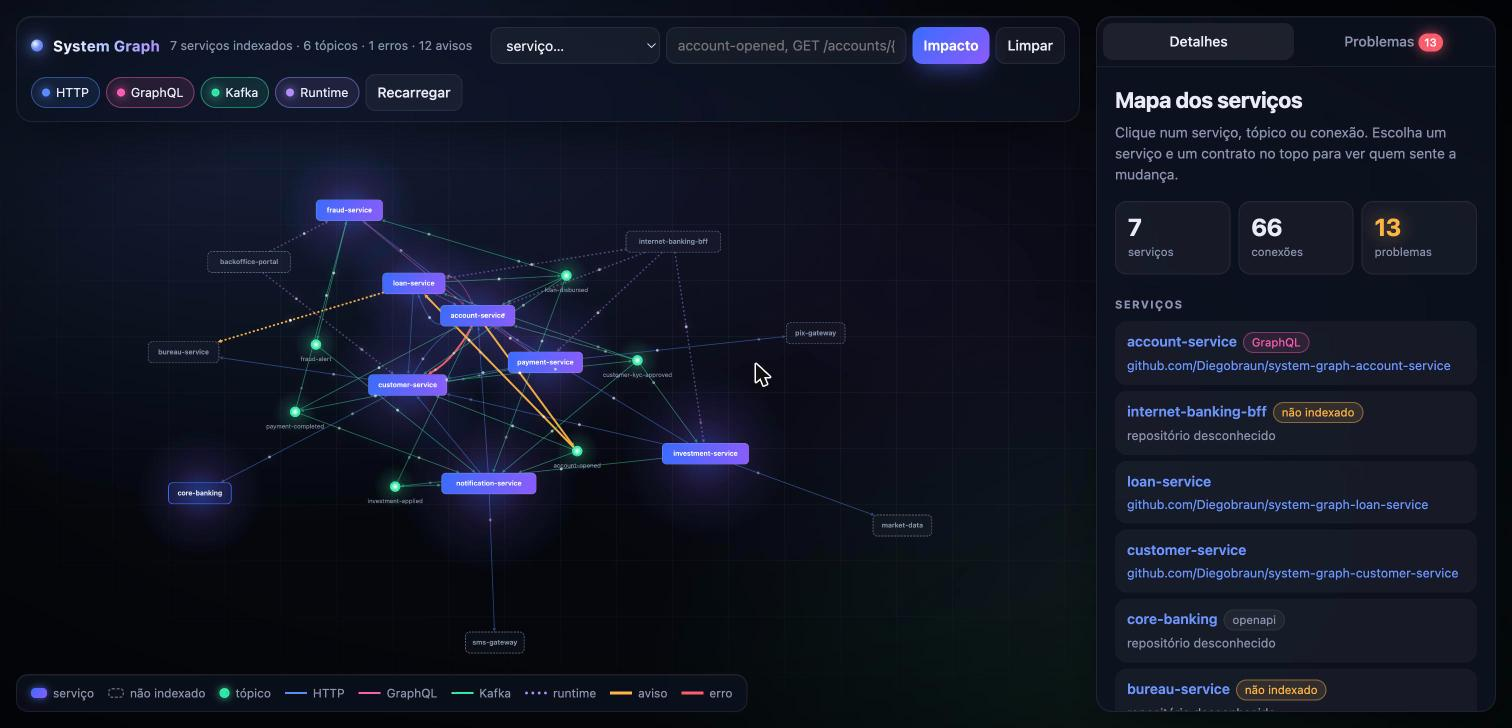
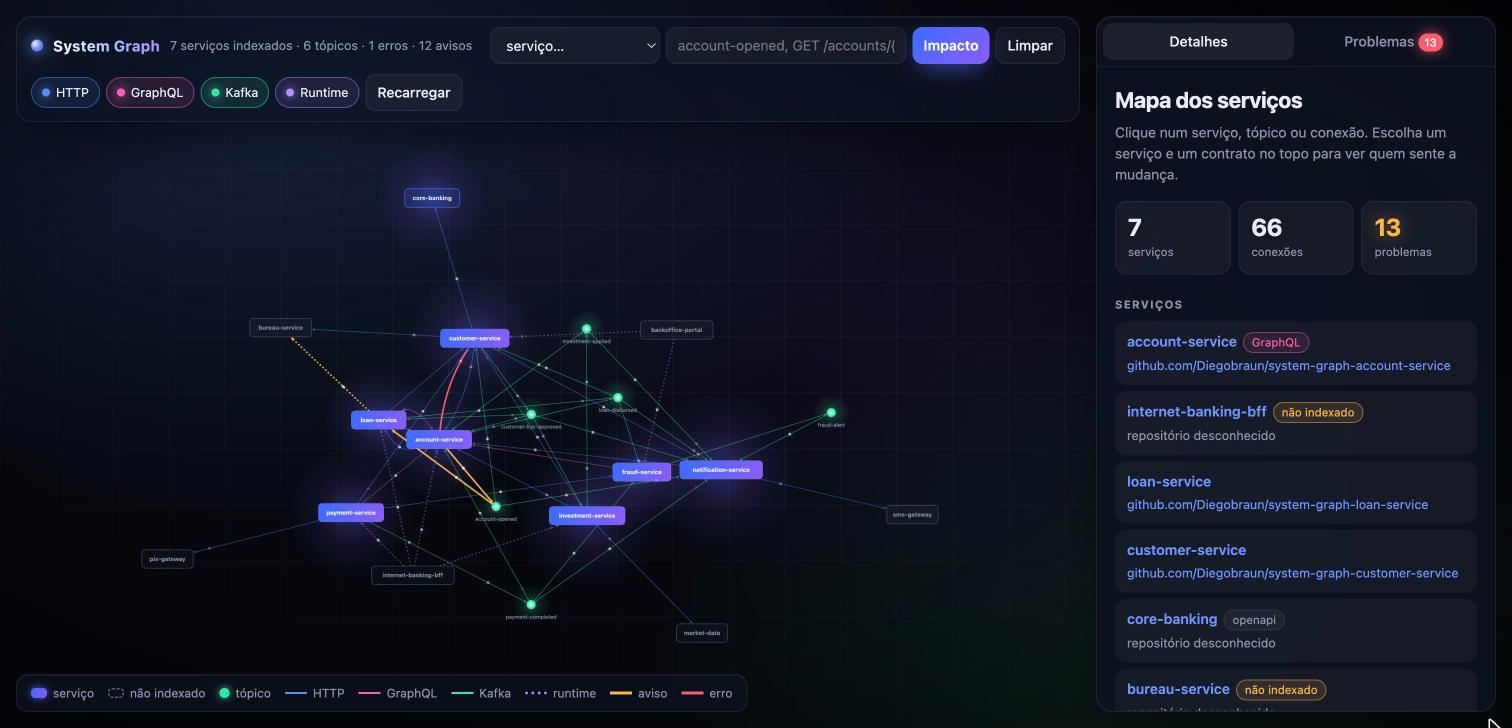
Add system graph screenshot to README

diff --git a/ci/README.md b/ci/README.md
@@ -5,6 +5,10 @@
 | `system-graph.gitlab-ci.yml` | Template com os jobs `.system-graph` (extração e ingestão no merge da branch default) e `.system-graph-runtime` (leitura dos consumer groups em pipeline agendado) |
 | `example-service.gitlab-ci.yml` | Como um serviço inclui o template |
 
+![Mapa dos serviços na interface do system-graph](../docs/img/ui-map.jpg)
+
+*O grafo que os jobs de CI alimentam, na [interface visual](../README.md#interface-visual).*
+
 O template espera o `graph-extractor.jar` publicado no Package Registry de um projeto da plataforma
 (`SYSTEM_GRAPH_PROJECT_ID`) e as variáveis `NEO4J_URI`, `NEO4J_USER`, `NEO4J_PASSWORD` configuradas no grupo.
 Para `.system-graph-runtime`, também `KAFKA_BOOTSTRAP`.

diff --git a/extractor/README.md b/extractor/README.md
@@ -3,6 +3,10 @@
 CLI que transforma um serviço Spring Boot num `service-graph.json` e grava esse JSON no Neo4j. Não sobe a
 aplicação e não precisa de nada além do projeto compilado.
 
+![Mapa dos serviços na interface do system-graph](../docs/img/ui-map.jpg)
+
+*O grafo que o extrator gera, na [interface visual](../README.md#interface-visual).*
+
 ```bash
 mvn package
 java -jar target/graph-extractor.jar <comando>

diff --git a/graph-mcp-server/README.md b/graph-mcp-server/README.md
@@ -3,6 +3,10 @@
 MCP server em **Spring AI 1.1** que expõe o grafo para assistentes de IA. Transporte Streamable HTTP em
 `http://localhost:8090/mcp`.
 
+![Mapa dos serviços na interface do system-graph](../docs/img/ui-map.jpg)
+
+*A [interface visual](../README.md#interface-visual) servida por este módulo em `http://localhost:8090`.*
+
 ```bash
 mvn spring-boot:run
 ```
